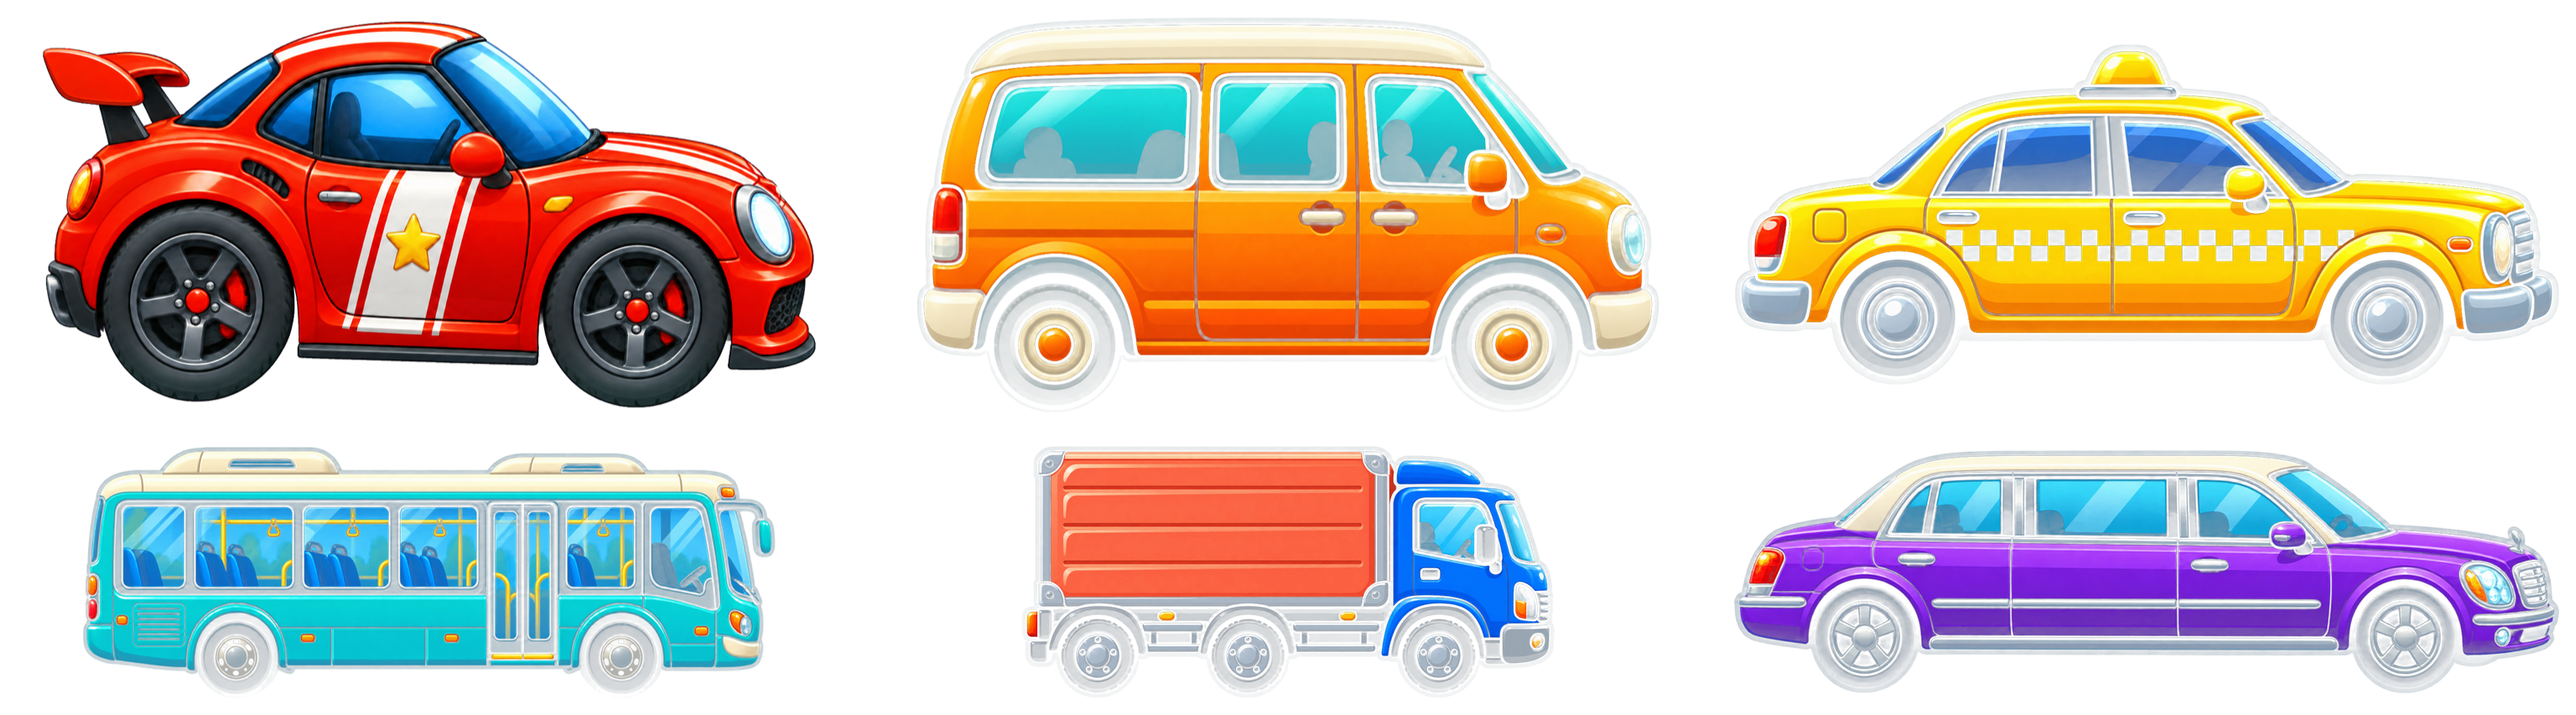
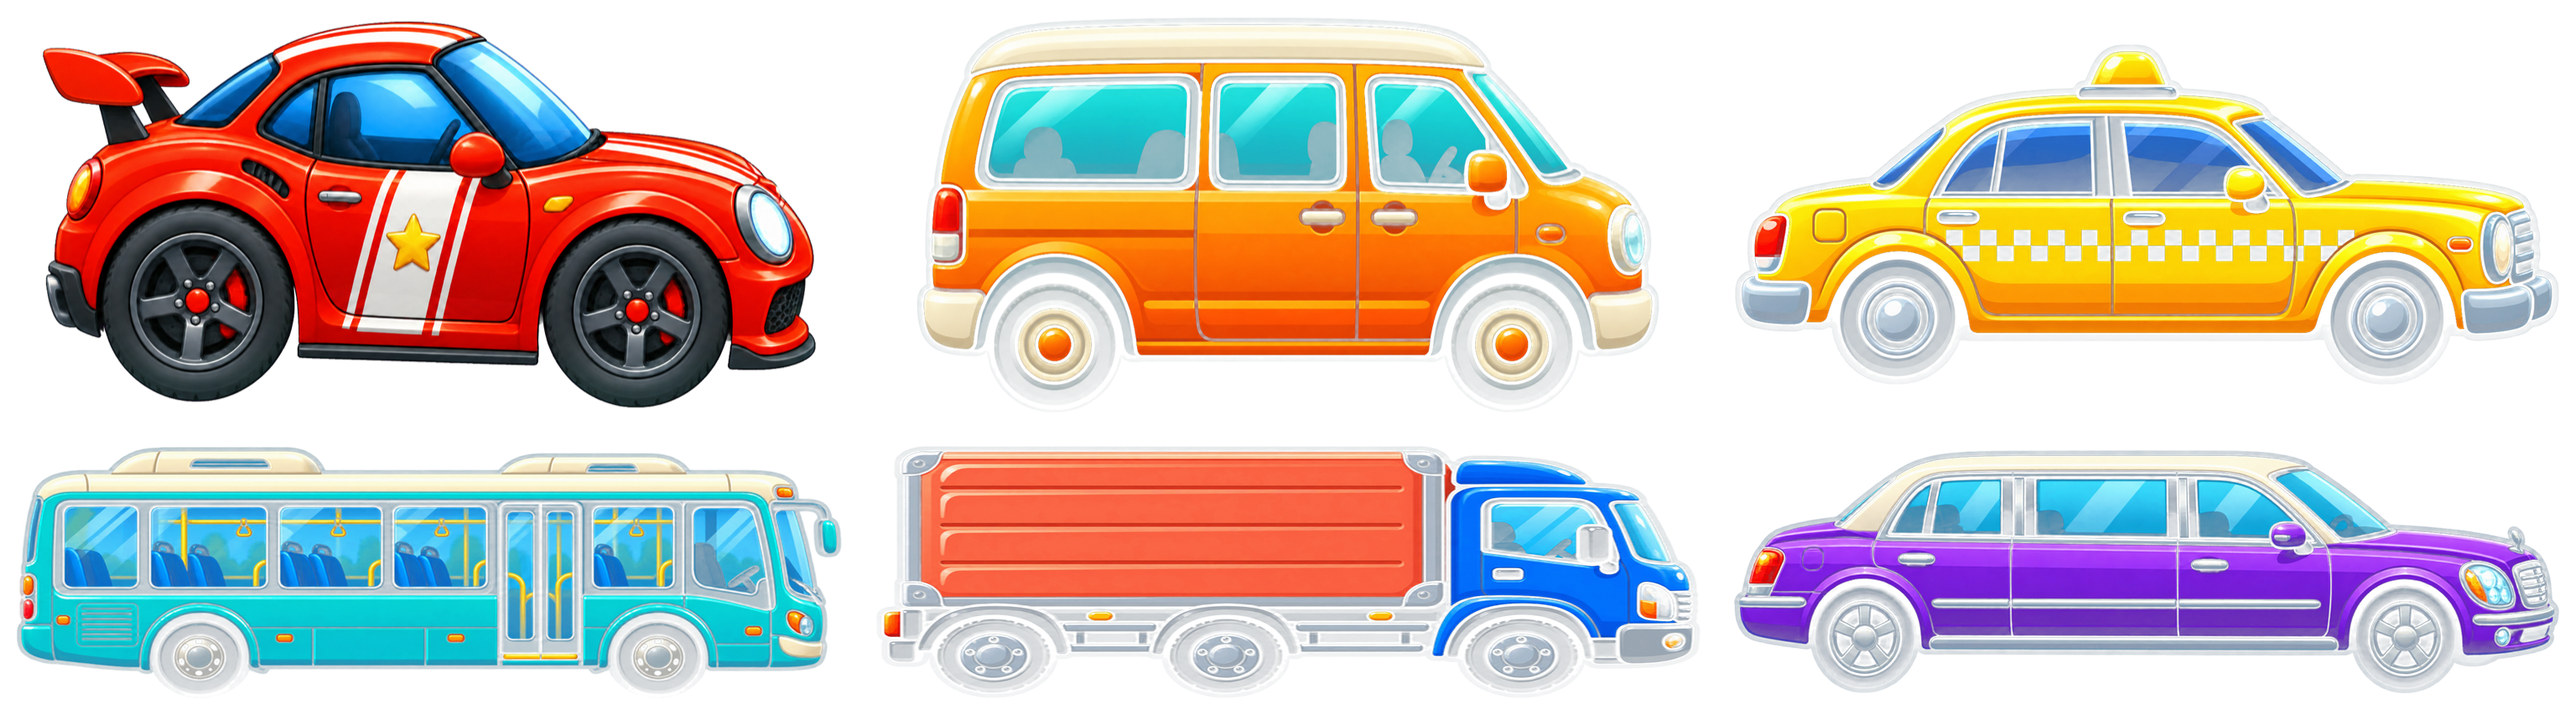
fix: size traffic truck and protect grid borders

Changed region(s): [[0.0, 0.6096, 0.6562, 0.9754]]

diff --git a/src/pages/traffic-escape/index.scss b/src/pages/traffic-escape/index.scss
@@ -328,7 +328,7 @@
 .traffic-vehicle {
   position: relative;
   z-index: 2;
-  margin: 3px;
+  margin: 6px;
   overflow: visible;
   border: 0;
   border-radius: 0;

diff --git a/scripts/create-traffic-vehicle-atlas.py b/scripts/create-traffic-vehicle-atlas.py
@@ -24,9 +24,19 @@ def trim_transparent_bounds(path: Path) -> Image.Image:
     return image.crop(bounds)
 
 
-def place_vehicle(atlas: Image.Image, filename: str, x: int, y: int, width: int, height: int) -> None:
+def place_vehicle(
+    atlas: Image.Image,
+    filename: str,
+    x: int,
+    y: int,
+    width: int,
+    height: int,
+    stretch_to_width: bool = False,
+) -> None:
     vehicle = trim_transparent_bounds(ASSET_DIR / filename)
     vehicle.thumbnail((width - PADDING * 2, height - PADDING * 2), Image.Resampling.LANCZOS)
+    if stretch_to_width:
+        vehicle = vehicle.resize((width - PADDING * 2, vehicle.height), Image.Resampling.LANCZOS)
     left = x + (width - vehicle.width) // 2
     top = y + (height - vehicle.height) // 2
     atlas.alpha_composite(vehicle, (left, top))
@@ -41,7 +51,15 @@ def main() -> None:
     top = 0
     for filenames, height in ROWS:
         for column, filename in enumerate(filenames):
-            place_vehicle(atlas, filename, column * TILE_WIDTH, top, TILE_WIDTH, height)
+            place_vehicle(
+                atlas,
+                filename,
+                column * TILE_WIDTH,
+                top,
+                TILE_WIDTH,
+                height,
+                stretch_to_width=height == THREE_CELL_HEIGHT,
+            )
         top += height
     atlas.save(OUTPUT, optimize=True)
 

diff --git a/docs/superpowers/specs/2026-09-01-traffic-escape-vehicle-atlas-design.md b/docs/superpowers/specs/2026-09-01-traffic-escape-vehicle-atlas-design.md
@@ -34,5 +34,5 @@
 
 - 图集由 `scripts/create-traffic-vehicle-atlas.py` 从既有六张 PNG 裁切透明边缘后生成；输出为透明 `3072 × 853` PNG，六个图块的 alpha 通道均非空。其本地路径为 `asset-backups/cloudbase-images/games/traffic-escape/vehicle-atlas.png`。
 - 已通过 `npm run assets:check`、`npm test -- --runInBand`（47 suites / 366 tests）、`npm run typecheck`、`npm run lint`、`npm run build:weapp`、`npm run secrets:check` 与 `git diff --check`。
-- 已执行 `npm run assets:upload`；随后以 `tcb storage list assets/games/traffic-escape/` 确认 CloudBase 存在 `assets/games/traffic-escape/vehicle-atlas.png`，大小为 2605.07 KB。
+- 已执行 `npm run assets:upload`，并在货车长度修正后单独重新上传图集；随后以 `tcb storage list assets/games/traffic-escape/` 确认 CloudBase 存在 `assets/games/traffic-escape/vehicle-atlas.png`，最新大小为 2768.81 KB。
 - 微信开发者工具已能读取项目首页，但自动化输入通道在进入车阵突围前连续返回无可用窗口，故本次未将模拟器中的横竖比例、选中态和远程加载画面记为已验证；需要在该输入通道恢复后补做一次实机/开发者工具检查。
